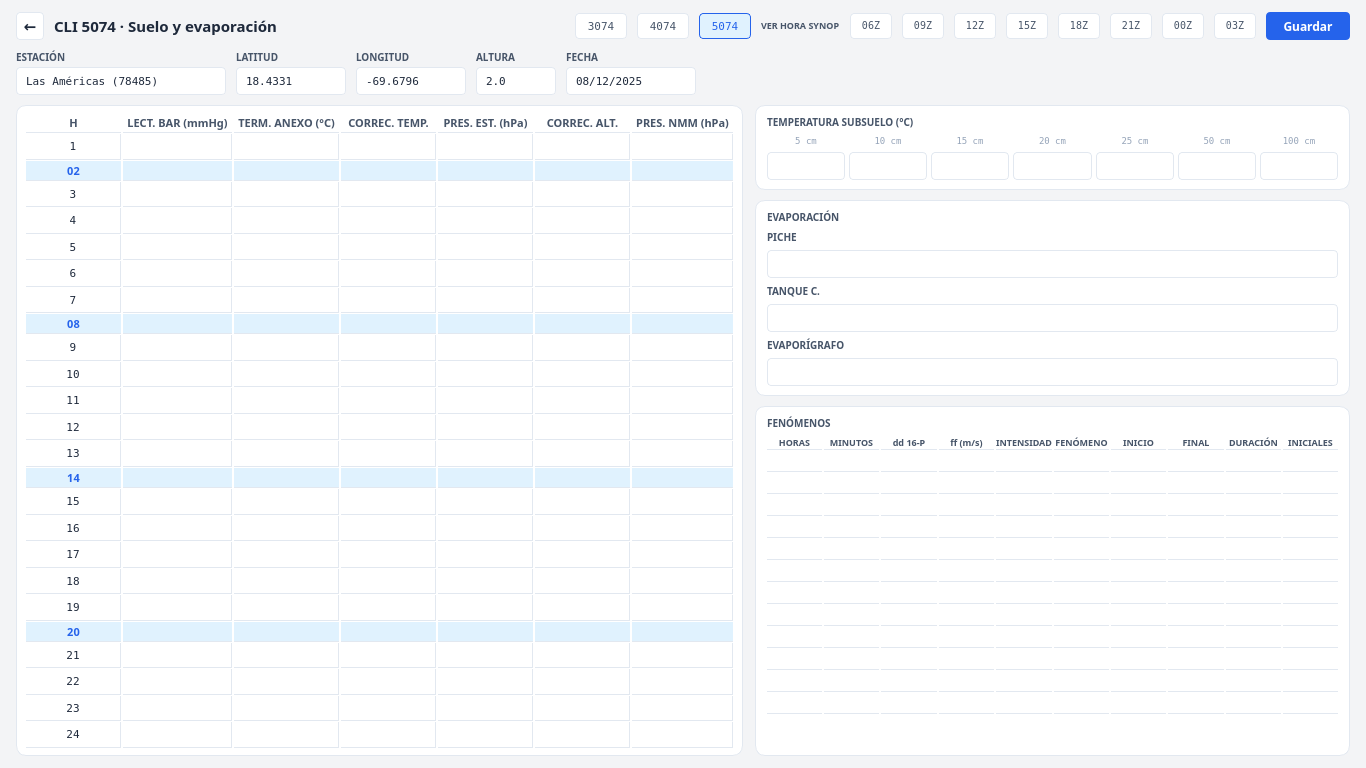
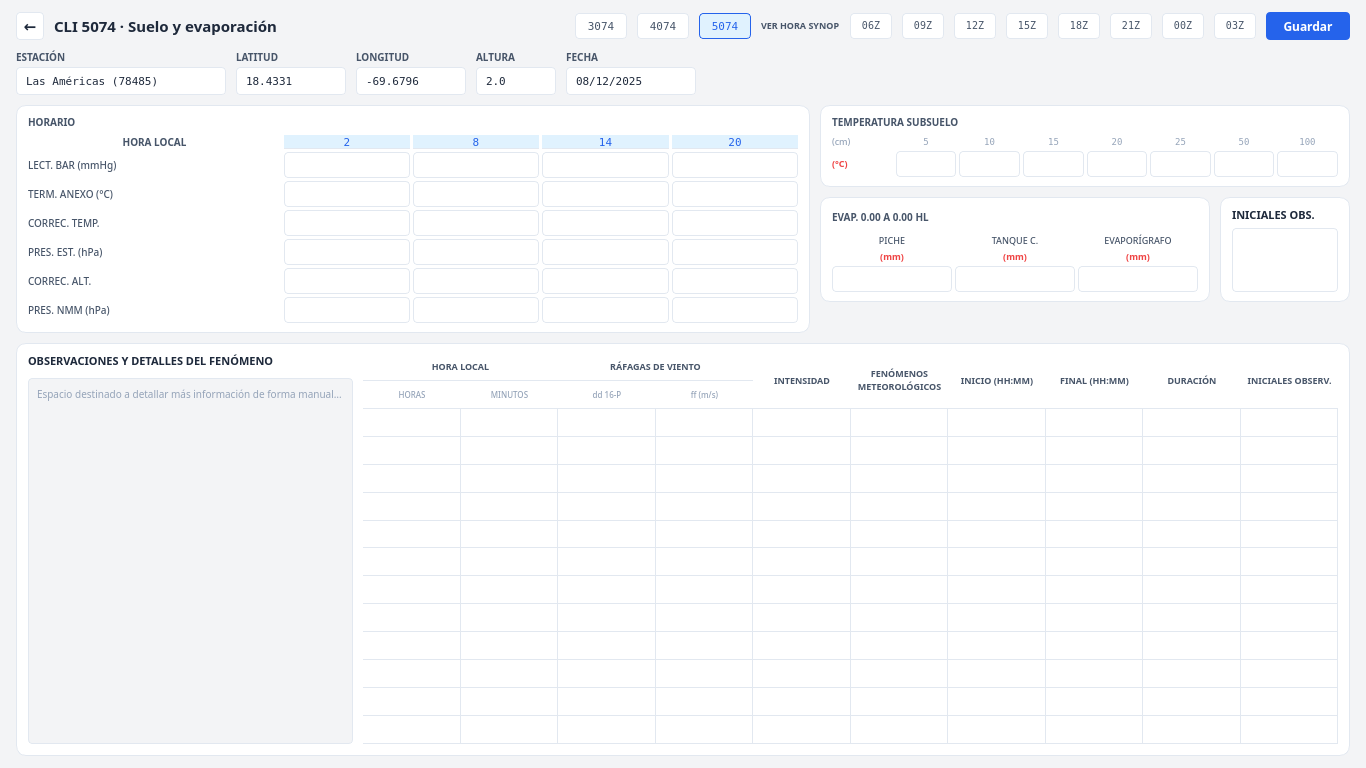
fix(diseno): rehacer el mockup del 5074 con la estructura real
El anterior inventaba una hoja de 24 filas que el 5074 no tiene. La estructura
sale ahora de cli5074._build(), línea por línea:

- tarjeta HORARIO con la esquina "HORA LOCAL", las horas 2/8/14/20 como
  columnas y las seis filas de campos (LECT. BAR, TERM. ANEXO, CORREC. TEMP.,
  PRES. EST., CORREC. ALT., PRES. NMM);
- columna derecha: TEMPERATURA SUBSUELO (fila (cm) con las siete profundidades
  y fila (°C)), y debajo [EVAP. 0.00 A 0.00 HL con PICHE/TANQUE C./EVAPORÍGRAFO
  y su (mm) | INICIALES OBS. con el campo alto];
- FENÓMENOS a todo el ancho abajo, con el cuadro de observaciones manuales a la
  izquierda y la tabla de ocho grupos por doce renglones a la derecha.

Lección anotada: mirar la imagen confirma que se ve ordenado, no que coincida
con el código. Cada mockup se contrasta contra su _build() antes de mostrarlo.

diff --git a/tools/mockup_pantallas.py b/tools/mockup_pantallas.py
@@ -663,8 +663,39 @@ def pantalla_cli4074(p: dict) -> QWidget:
     return pagina
 
 
+def _tarjeta(p: dict, titulo_texto: str | None = None) -> tuple[QWidget, QVBoxLayout]:
+    """Card del sistema: superficie, borde de 1 px, radio 10."""
+    caja = QWidget()
+    caja.setObjectName("caja")
+    caja.setStyleSheet(
+        f"QWidget#caja {{ background:{p['superficie']};"
+        f" border:1px solid {p['borde']}; border-radius:10px; }}"
+    )
+    cv = QVBoxLayout(caja)
+    cv.setContentsMargins(12, 10, 12, 10)
+    cv.setSpacing(6)
+    if titulo_texto:
+        t = QLabel(titulo_texto)
+        t.setFont(ui(10, 700))
+        t.setStyleSheet(f"color:{p['suave']};background:transparent;border:none;")
+        cv.addWidget(t)
+    return caja, cv
+
+
+def _campo_plano(p: dict, alto: int = 26) -> QLabel:
+    campo = QLabel("")
+    campo.setFont(mono(11))
+    campo.setFixedHeight(alto)
+    campo.setStyleSheet(
+        f"background:{p['superficie']};color:{p['texto']};"
+        f"border:1px solid {p['borde']};border-radius:4px;padding:0 6px;"
+    )
+    return campo
+
+
 def pantalla_cli5074(p: dict) -> QWidget:
-    """Hoja de 4 bloques horarios a la izquierda, tarjetas a la derecha."""
+    """Estructura real de cli5074._build: HORARIO (6 filas x 4 horas) + columna
+    con subsuelo y [evap | iniciales] + FENÓMENOS a todo el ancho abajo."""
     pagina = QWidget()
     pagina.setObjectName("pagina")
     pagina.setStyleSheet(f"QWidget#pagina {{ background:{p['fondo']}; }}")
@@ -674,129 +705,187 @@ def pantalla_cli5074(p: dict) -> QWidget:
     v.addLayout(banda_superior(p, "CLI 5074 · Suelo y evaporación", "5074"))
     v.addLayout(banda_estacion(p))
 
-    cuerpo = QHBoxLayout()
-    cuerpo.setSpacing(12)
+    medio = QHBoxLayout()
+    medio.setSpacing(10)
 
-    hoja, grilla = _hoja(p)
-    grilla.setContentsMargins(10, 8, 10, 8)
-    grilla.addWidget(_celda_trazo(p, "H", cabecera=True), 0, 0, 2, 1)
-    for indice, (etiqueta, _subs) in enumerate(GRUPOS_5074):
-        grilla.addWidget(_celda_trazo(p, etiqueta, cabecera=True), 0, indice + 1, 2, 1)
-    # La hoja real tiene 24 filas y las filas 2/8/14/20 SON las cabeceras de
-    # bloque: no son renglones extra, así que la numeración va 1..24 corrida.
-    for numero_fila in range(1, 25):
-        fila_grid = numero_fila + 1
-        es_bloque = numero_fila in (2, 8, 14, 20)
-        if es_bloque:
-            for columna in range(len(GRUPOS_5074) + 1):
-                cabecera = _celda_trazo(
-                    p, f"{numero_fila:02d}" if columna == 0 else "", cabecera=True
-                )
-                if columna == 0:
-                    cabecera.setAlignment(Qt.AlignCenter)
-                cabecera.setStyleSheet(
-                    f"color:{p['acento']};background:{p['acento_suave']};"
-                    f"border-bottom:1px solid {p['borde']};padding:0 4px;"
-                )
-                grilla.addWidget(cabecera, fila_grid, columna)
-            grilla.setRowStretch(fila_grid, 0)
-            continue
-        numero = _celda_cuerpo(p, str(numero_fila))
-        numero.setAlignment(Qt.AlignCenter)
-        grilla.addWidget(numero, fila_grid, 0)
-        for columna in range(1, len(GRUPOS_5074) + 1):
-            grilla.addWidget(_celda_cuerpo(p), fila_grid, columna)
-        grilla.setRowStretch(fila_grid, 1)
-    cuerpo.addWidget(hoja, 55)
+    # ---- tarjeta HORARIO: 6 filas de campos x las horas 2 / 8 / 14 / 20 ----
+    caja_hor, cv_hor = _tarjeta(p, "HORARIO")
+    grilla_hor = QGridLayout()
+    grilla_hor.setHorizontalSpacing(3)
+    grilla_hor.setVerticalSpacing(3)
+    esquina = QLabel("HORA LOCAL")
+    esquina.setFont(ui(10, 700))
+    esquina.setAlignment(Qt.AlignCenter)
+    esquina.setStyleSheet(f"color:{p['suave']};background:transparent;border:none;")
+    grilla_hor.addWidget(esquina, 0, 0)
+    for indice, hora in enumerate((2, 8, 14, 20)):
+        cab = QLabel(str(hora))
+        cab.setFont(mono(11))
+        cab.setAlignment(Qt.AlignCenter)
+        cab.setStyleSheet(
+            f"color:{p['acento']};background:{p['acento_suave']};"
+            f"border-bottom:1px solid {p['borde']};"
+        )
+        grilla_hor.addWidget(cab, 0, indice + 1)
+    for fila, etiqueta in enumerate(
+        ("LECT. BAR (mmHg)", "TERM. ANEXO (°C)", "CORREC. TEMP.",
+         "PRES. EST. (hPa)", "CORREC. ALT.", "PRES. NMM (hPa)")
+    ):
+        lab = QLabel(etiqueta)
+        lab.setFont(ui(10, 600))
+        lab.setStyleSheet(f"color:{p['suave']};background:transparent;border:none;")
+        grilla_hor.addWidget(lab, fila + 1, 0)
+        for indice in range(4):
+            grilla_hor.addWidget(_campo_plano(p), fila + 1, indice + 1)
+    grilla_hor.setColumnStretch(0, 2)
+    for indice in range(4):
+        grilla_hor.setColumnStretch(indice + 1, 1)
+    cv_hor.addLayout(grilla_hor)
+    cv_hor.addStretch(1)
+    medio.addWidget(caja_hor, 3)
 
+    # ---- columna derecha: subsuelo arriba, [evap | iniciales] abajo -------
     derecha = QVBoxLayout()
     derecha.setSpacing(10)
 
-    def tarjeta(titulo_texto: str) -> tuple[QWidget, QVBoxLayout]:
-        caja = QWidget()
-        caja.setObjectName("caja")
-        caja.setStyleSheet(
-            f"QWidget#caja {{ background:{p['superficie']};"
-            f" border:1px solid {p['borde']}; border-radius:10px; }}"
-        )
-        cv = QVBoxLayout(caja)
-        cv.setContentsMargins(12, 10, 12, 10)
-        cv.setSpacing(6)
-        t = QLabel(titulo_texto)
-        t.setFont(ui(10, 700))
-        t.setStyleSheet(f"color:{p['suave']};background:transparent;border:none;")
-        cv.addWidget(t)
-        return caja, cv
-
-    caja_sub, cv_sub = tarjeta("TEMPERATURA SUBSUELO (°C)")
-    depths = (5, 10, 15, 20, 25, 50, 100)
-    fila_depths = QHBoxLayout()
-    fila_depths.setSpacing(4)
-    for d in depths:
-        lab = QLabel(f"{d} cm")
-        lab.setFont(mono(9))
-        lab.setAlignment(Qt.AlignCenter)
-        lab.setStyleSheet(f"color:{p['tenue']};background:transparent;border:none;")
-        fila_depths.addWidget(lab)
-    cv_sub.addLayout(fila_depths)
-    fila_valores = QHBoxLayout()
-    fila_valores.setSpacing(4)
-    for _d in depths:
-        campo = QLabel("")
-        campo.setFont(mono(11))
-        campo.setFixedHeight(28)
-        campo.setStyleSheet(
-            f"background:{p['superficie']};color:{p['texto']};"
-            f"border:1px solid {p['borde']};border-radius:4px;"
-        )
-        fila_valores.addWidget(campo)
-    cv_sub.addLayout(fila_valores)
+    caja_sub, cv_sub = _tarjeta(p, "TEMPERATURA SUBSUELO")
+    grilla_sub = QGridLayout()
+    grilla_sub.setHorizontalSpacing(3)
+    grilla_sub.setVerticalSpacing(3)
+    cm = QLabel("(cm)")
+    cm.setFont(ui(9, 600))
+    cm.setStyleSheet(f"color:{p['tenue']};background:transparent;border:none;")
+    grilla_sub.addWidget(cm, 0, 0)
+    for indice, profundidad in enumerate((5, 10, 15, 20, 25, 50, 100)):
+        cab = QLabel(str(profundidad))
+        cab.setFont(mono(9))
+        cab.setAlignment(Qt.AlignCenter)
+        cab.setStyleSheet(f"color:{p['tenue']};background:transparent;border:none;")
+        grilla_sub.addWidget(cab, 0, indice + 1)
+    celsius = QLabel("(°C)")
+    celsius.setFont(ui(9, 700))
+    celsius.setStyleSheet(f"color:{p['error']};background:transparent;border:none;")
+    grilla_sub.addWidget(celsius, 1, 0)
+    for indice in range(7):
+        grilla_sub.addWidget(_campo_plano(p), 1, indice + 1)
+    for col in range(8):
+        grilla_sub.setColumnStretch(col, 1)
+    cv_sub.addLayout(grilla_sub)
     derecha.addWidget(caja_sub, 0)
 
-    caja_evap, cv_evap = tarjeta("EVAPORACIÓN")
-    for etiqueta in ("PICHE", "TANQUE C.", "EVAPORÍGRAFO"):
-        lab = QLabel(etiqueta)
-        lab.setFont(ui(10, 700))
-        lab.setStyleSheet(f"color:{p['suave']};background:transparent;border:none;")
-        cv_evap.addWidget(lab)
-        campo = QLabel("")
-        campo.setFont(mono(11))
-        campo.setFixedHeight(28)
-        campo.setStyleSheet(
-            f"background:{p['superficie']};color:{p['texto']};"
-            f"border:1px solid {p['borde']};border-radius:4px;"
-        )
-        cv_evap.addWidget(campo)
-    derecha.addWidget(caja_evap, 0)
+    fila_abajo = QHBoxLayout()
+    fila_abajo.setSpacing(10)
 
-    caja_feno, cv_feno = tarjeta("FENÓMENOS")
-    cabeceras = ("HORAS", "MINUTOS", "dd 16-P", "ff (m/s)", "INTENSIDAD",
-                 "FENÓMENO", "INICIO", "FINAL", "DURACIÓN", "INICIALES")
-    rejilla = QGridLayout()
-    rejilla.setSpacing(2)
-    for col, texto in enumerate(cabeceras):
-        cab = QLabel(texto)
+    caja_evap, cv_evap = _tarjeta(p, "EVAP. 0.00 A 0.00 HL")
+    grilla_evap = QGridLayout()
+    grilla_evap.setHorizontalSpacing(3)
+    grilla_evap.setVerticalSpacing(3)
+    for indice, etiqueta in enumerate(("PICHE", "TANQUE C.", "EVAPORÍGRAFO")):
+        cab = QLabel(etiqueta)
+        cab.setFont(ui(9, 600))
+        cab.setAlignment(Qt.AlignCenter)
+        cab.setStyleSheet(f"color:{p['suave']};background:transparent;border:none;")
+        grilla_evap.addWidget(cab, 0, indice)
+        sub = QLabel("(mm)")
+        sub.setFont(ui(9, 700))
+        sub.setAlignment(Qt.AlignCenter)
+        sub.setStyleSheet(f"color:{p['error']};background:transparent;border:none;")
+        grilla_evap.addWidget(sub, 1, indice)
+        grilla_evap.addWidget(_campo_plano(p), 2, indice)
+        grilla_evap.setColumnStretch(indice, 1)
+    cv_evap.addLayout(grilla_evap)
+    fila_abajo.addWidget(caja_evap, 3)
+
+    caja_ini, cv_ini = _tarjeta(p, None)
+    lab_ini = QLabel("INICIALES OBS.")
+    lab_ini.setFont(ui(11, 800))
+    lab_ini.setStyleSheet(f"color:{p['texto']};background:transparent;border:none;")
+    cv_ini.addWidget(lab_ini)
+    campo_ini = _campo_plano(p, alto=64)
+    campo_ini.setAlignment(Qt.AlignCenter)
+    cv_ini.addWidget(campo_ini)
+    cv_ini.addStretch(1)
+    fila_abajo.addWidget(caja_ini, 1)
+
+    derecha.addLayout(fila_abajo, 0)
+    derecha.addStretch(1)
+    medio.addLayout(derecha, 2)
+    v.addLayout(medio, 0)
+
+    # ---- FENÓMENOS: a todo el ancho, observaciones a la izquierda ---------
+    caja_feno = QWidget()
+    caja_feno.setObjectName("caja")
+    caja_feno.setStyleSheet(
+        f"QWidget#caja {{ background:{p['superficie']};"
+        f" border:1px solid {p['borde']}; border-radius:10px; }}"
+    )
+    fila_feno = QHBoxLayout(caja_feno)
+    fila_feno.setContentsMargins(12, 10, 12, 12)
+    fila_feno.setSpacing(10)
+
+    izquierda = QVBoxLayout()
+    titulo_obs = QLabel("OBSERVACIONES Y DETALLES DEL FENÓMENO")
+    titulo_obs.setFont(ui(11, 800))
+    titulo_obs.setStyleSheet(f"color:{p['texto']};background:transparent;border:none;")
+    izquierda.addWidget(titulo_obs)
+    caja_texto = QLabel("Espacio destinado a detallar más información de forma manual…")
+    caja_texto.setWordWrap(True)
+    caja_texto.setFont(ui(10))
+    caja_texto.setAlignment(Qt.AlignTop | Qt.AlignLeft)
+    caja_texto.setStyleSheet(
+        f"color:{p['tenue']};background:{p['fondo']};"
+        f"border:1px solid {p['borde']};border-radius:4px;padding:6px;"
+    )
+    izquierda.addWidget(caja_texto, 1)
+    fila_feno.addLayout(izquierda, 1)
+
+    grupos_feno = (
+        ("HORA LOCAL", ("HORAS", "MINUTOS")),
+        ("RÁFAGAS DE VIENTO", ("dd 16-P", "ff (m/s)")),
+        ("INTENSIDAD", ()),
+        ("FENÓMENOS METEOROLÓGICOS", ()),
+        ("INICIO (HH:MM)", ()),
+        ("FINAL (HH:MM)", ()),
+        ("DURACIÓN", ()),
+        ("INICIALES OBSERV.", ()),
+    )
+    tabla_feno = QGridLayout()
+    tabla_feno.setHorizontalSpacing(0)
+    tabla_feno.setVerticalSpacing(0)
+    columna = 0
+    for titulo_grupo, subs in grupos_feno:
+        cab = QLabel(titulo_grupo)
         cab.setFont(ui(9, 700))
+        cab.setWordWrap(True)
         cab.setAlignment(Qt.AlignCenter)
         cab.setStyleSheet(
-            f"color:{p['suave']};background:transparent;border:none;"
-            f"border-bottom:1px solid {p['borde']};"
+            f"color:{p['suave']};background:transparent;"
+            f"border-bottom:1px solid {p['borde']};padding:2px;"
         )
-        rejilla.addWidget(cab, 0, col)
-    for fila_f in range(12):
-        for col in range(len(cabeceras)):
-            celda = QLabel("")
-            celda.setMinimumHeight(20)
-            celda.setStyleSheet(
-                f"background:transparent;border-bottom:1px solid {p['borde']};"
+        tabla_feno.addWidget(cab, 0, columna, 1 if subs else 2, max(1, len(subs)))
+        for offset, sub in enumerate(subs):
+            sub_lab = QLabel(sub)
+            sub_lab.setFont(ui(8, 600))
+            sub_lab.setAlignment(Qt.AlignCenter)
+            sub_lab.setStyleSheet(
+                f"color:{p['tenue']};background:transparent;"
+                f"border-bottom:1px solid {p['borde']};"
             )
-            rejilla.addWidget(celda, fila_f + 1, col)
-    cv_feno.addLayout(rejilla)
-    cv_feno.addStretch(1)  # el aire sobrante va al final, no entre el título y la tabla
-    derecha.addWidget(caja_feno, 1)
-
-    cuerpo.addLayout(derecha, 45)
-    v.addLayout(cuerpo, 1)
+            tabla_feno.addWidget(sub_lab, 1, columna + offset)
+        for fila_f in range(12):
+            for offset in range(max(1, len(subs))):
+                celda = QLabel("")
+                celda.setMinimumHeight(18)
+                celda.setStyleSheet(
+                    f"background:transparent;border-bottom:1px solid {p['borde']};"
+                    f"border-right:1px solid {p['borde']};"
+                )
+                tabla_feno.addWidget(celda, 2 + fila_f, columna + offset)
+        columna += max(1, len(subs))
+    for col in range(columna):
+        tabla_feno.setColumnStretch(col, 1)
+    fila_feno.addLayout(tabla_feno, 3)
+    v.addWidget(caja_feno, 1)
     return pagina
 
 
